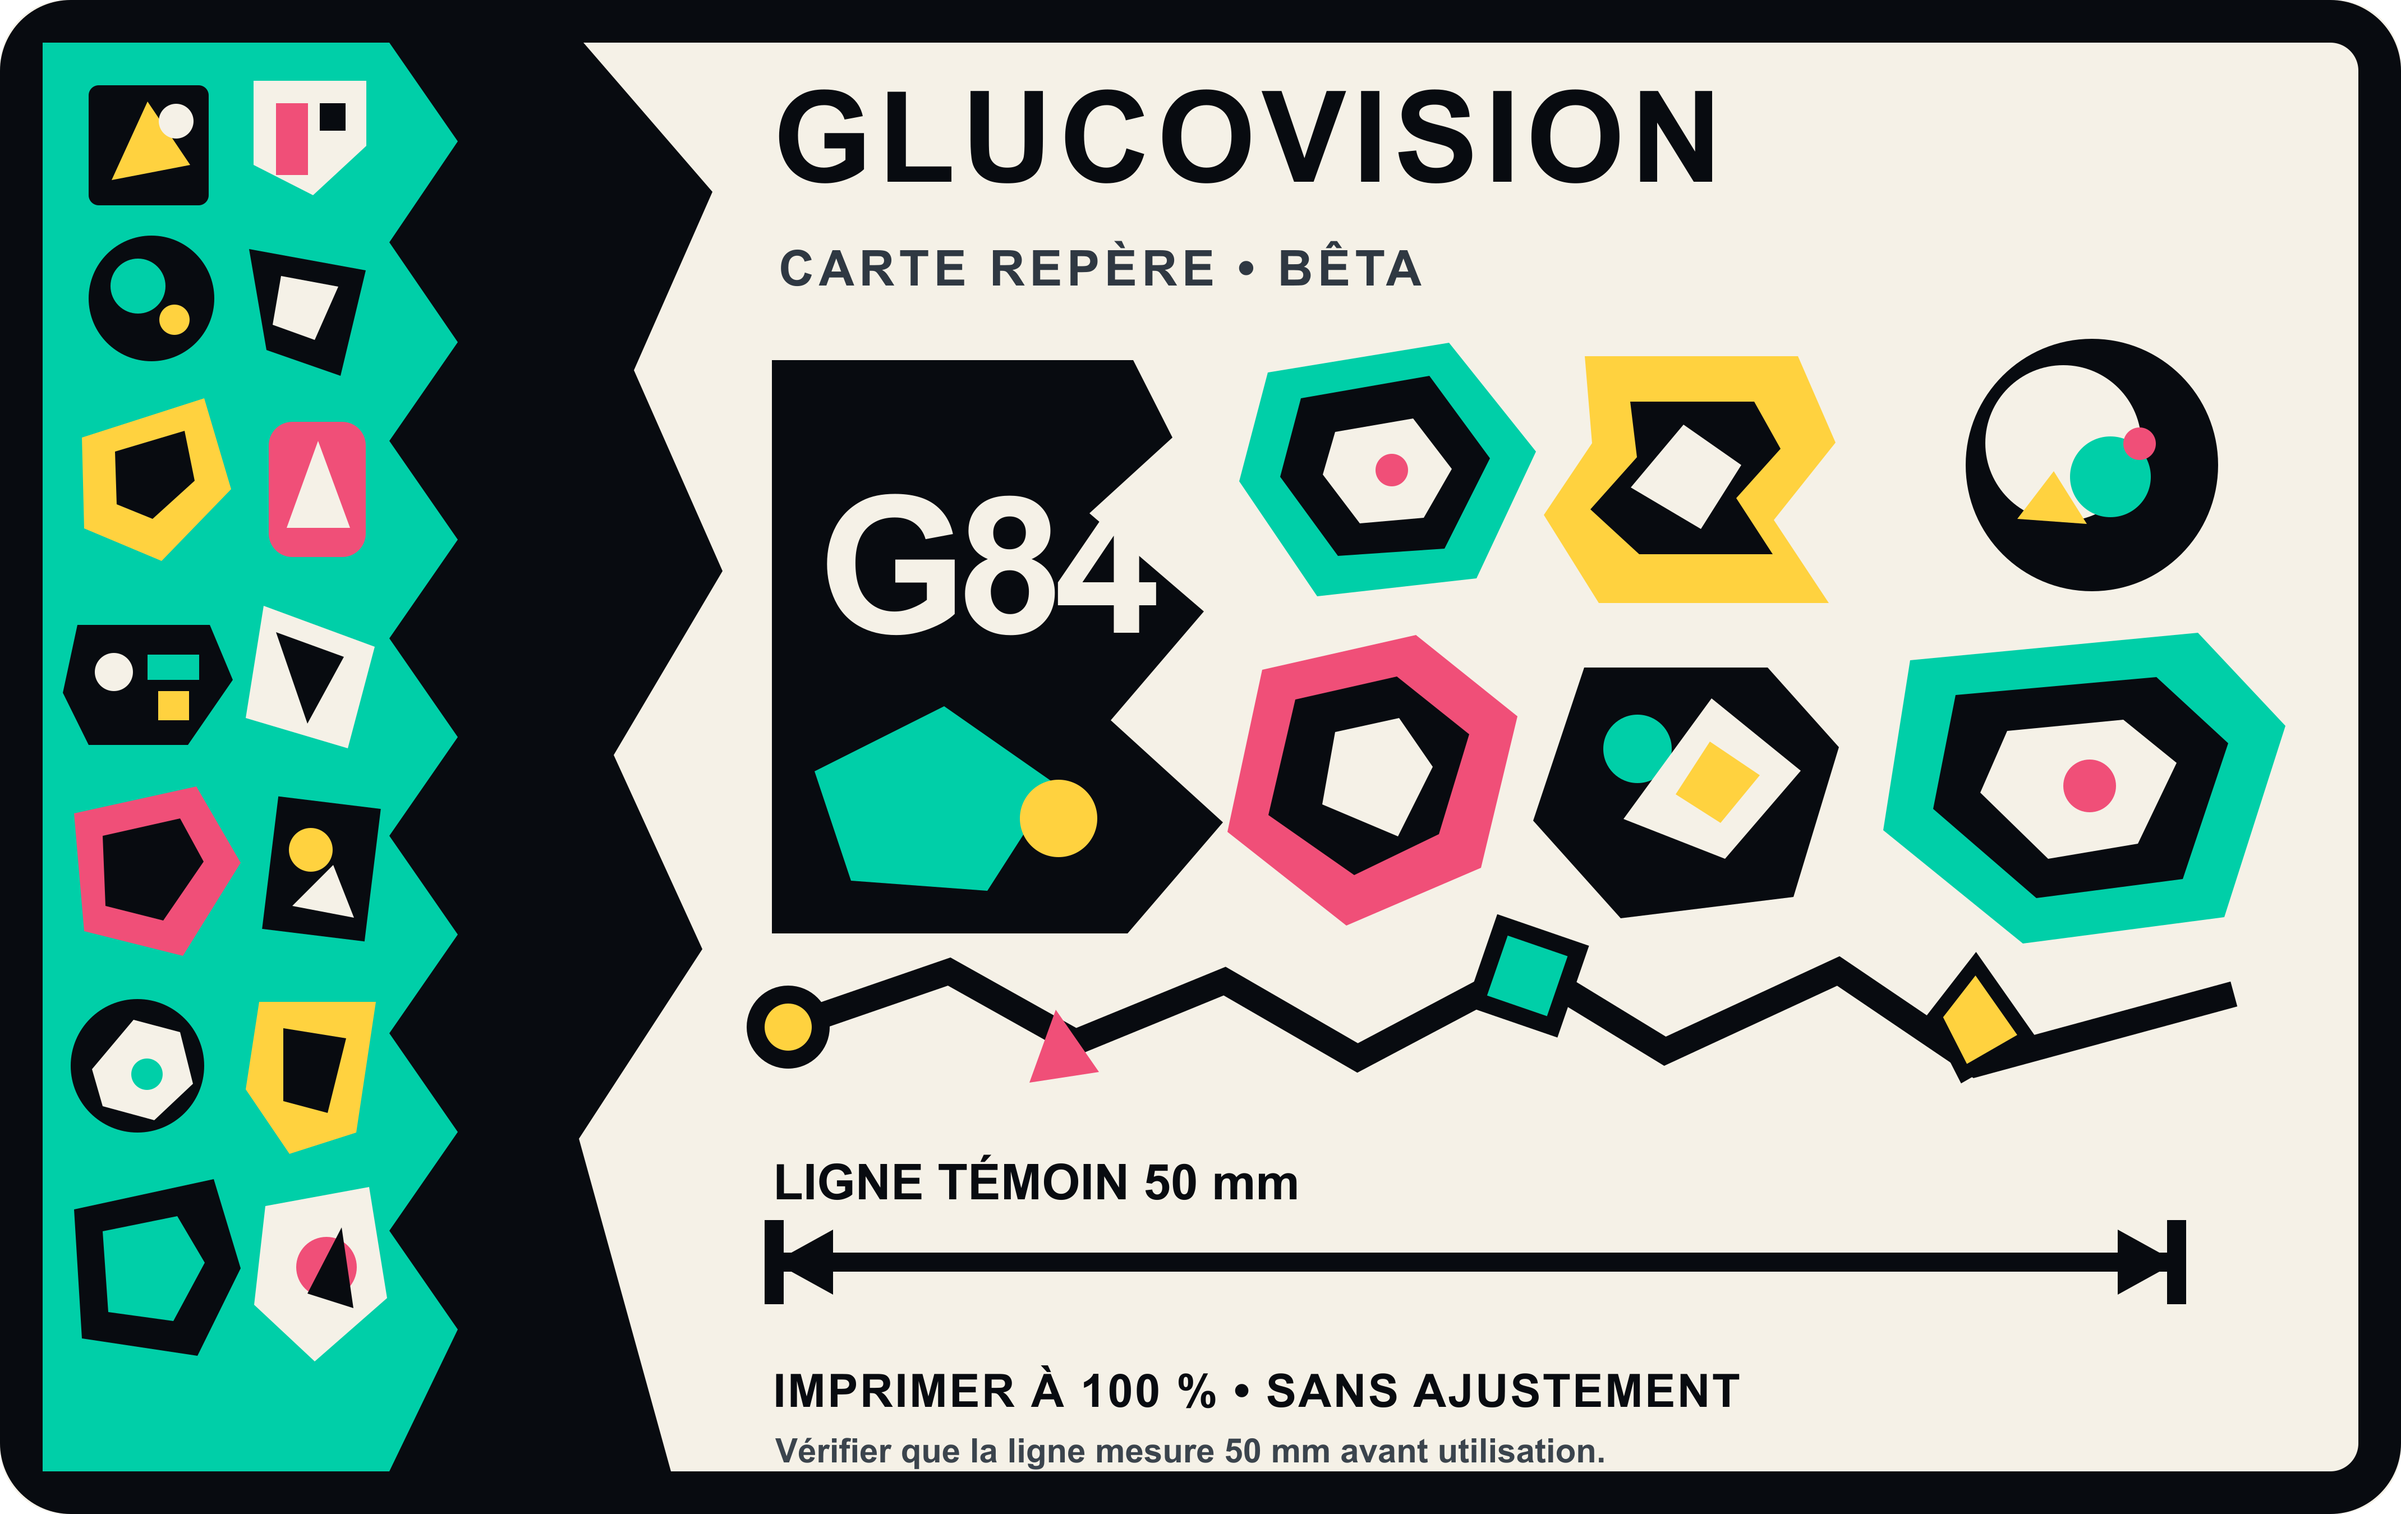
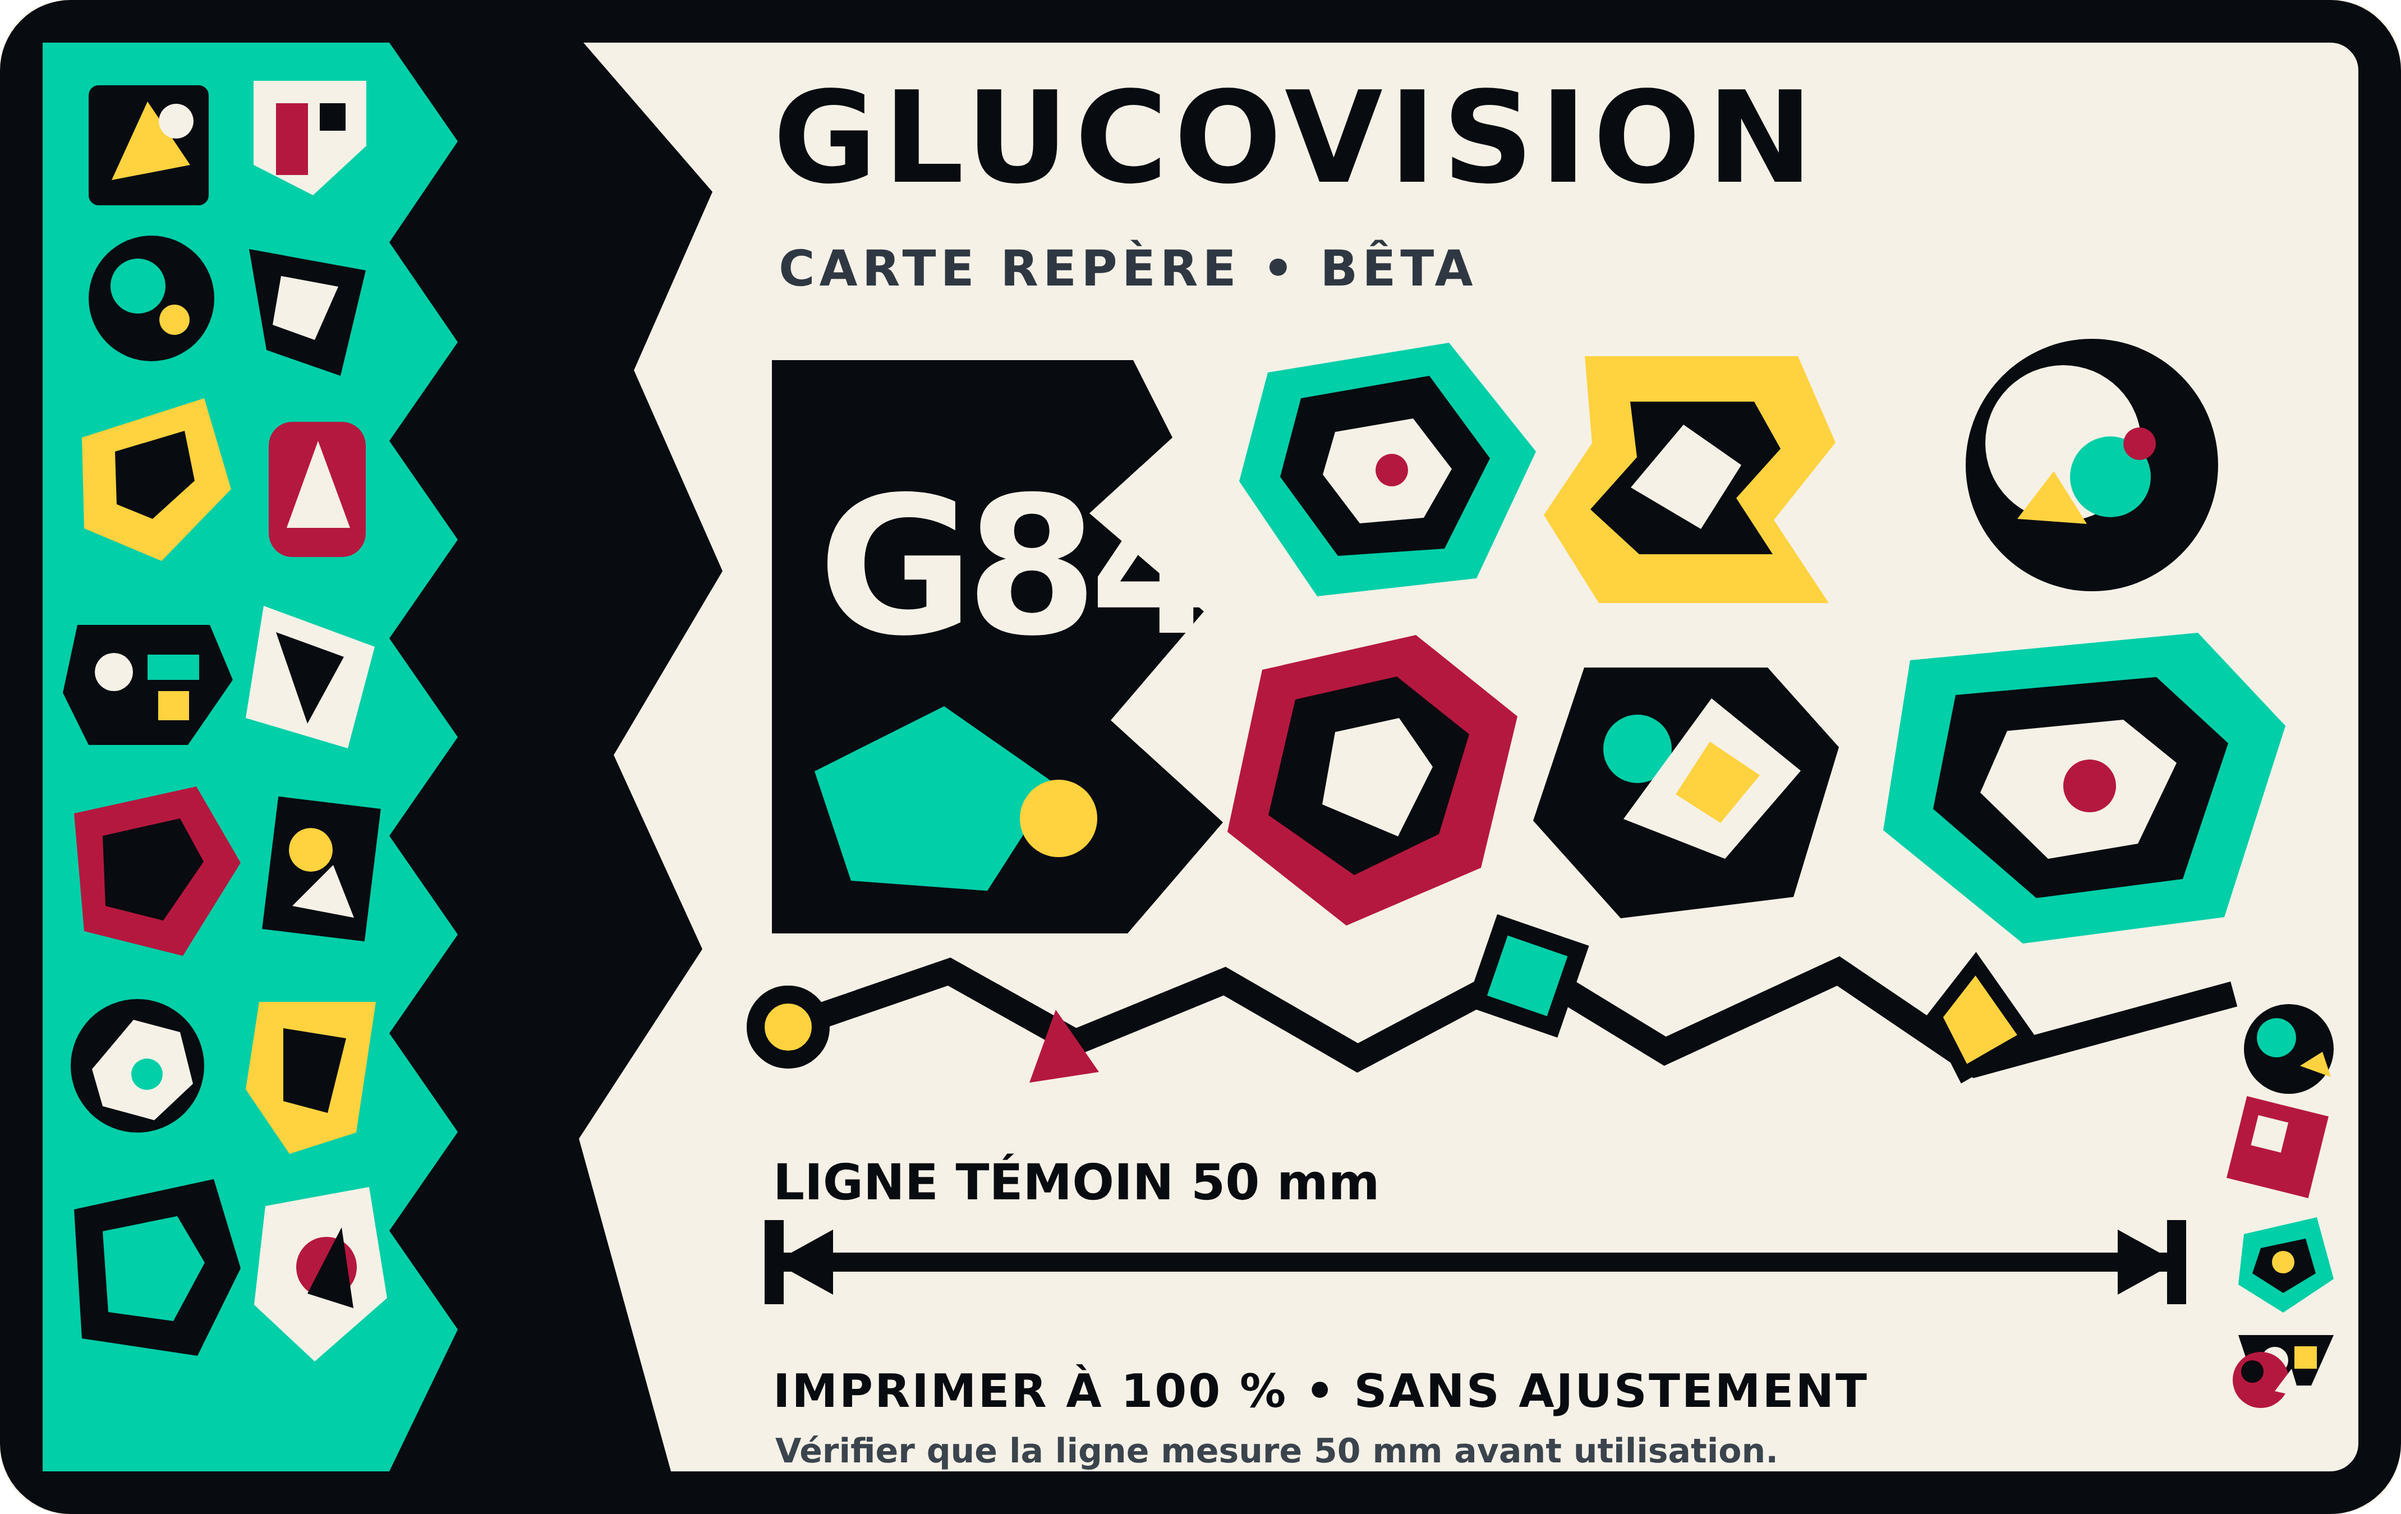
v85 — carte repère à 100/100, vérifiée avec le vrai arcoreimg
Deux défauts trouvés dans le motif de la carte GlucoVision, à l'origine
purement analytiques (je n'ai pas arcoreimg sur cette machine, donc pas de
score avant ce commit) :

1. Le teal (#00cfa8, luminance ~141) et le rose (#f04f78, luminance ~132)
   n'étaient écartés que de 9 points sur 255. ARCore lit l'image en niveaux
   de gris : deux couleurs visuellement distinctes mais proches en luminance
   sont presque une zone plate pour le tracker. Le rose devient #b5183f
   (luminance ~75), qui écarte nettement les deux teintes.
2. La colonne x:3950-4180 était vide de tout motif sous y=1682, sur toute
   la hauteur restante de la carte — la plus grande zone plate du dessin.
   Comblée par cinq petits groupes de formes dans le même style que le
   reste, sans toucher à la ligne témoin ni au texte d'instruction.

Le score n'était donc qu'une hypothèse jusqu'à ce que je télécharge le
binaire officiel `arcoreimg` depuis google-ar/arcore-android-sdk (dépôt
Google, lien direct vers tools/arcoreimg/linux/arcoreimg) et que je le fasse
tourner moi-même : 95 sur l'image d'origine (recalé exactement sur le score
déjà documenté, preuve que l'outil mesure correctement), 100 sur la version
corrigée — confirmé sur plusieurs essais. Rien n'a été changé sans que la
mesure existe.

Une découverte en cours de route, gardée parce qu'elle a une vraie valeur
pour qui retouchera cette carte un jour : faire passer le badge de version
[…]

diff --git a/tests-browser/comparaison.js b/tests-browser/comparaison.js
@@ -159,8 +159,16 @@ async function ecran(page, liste, contexte) {
 
   /* Parcours Carte GlucoVision avec un pont Android déterministe. On remplace
      uniquement native.js sur cette page isolée : tout le DOM et app.js restent
-     ceux réellement publiés. */
+     ceux réellement publiés.
+
+     Le build simulé est volontairement énorme plutôt qu'un numéro de version
+     réel : un chiffre comme 2084 se fige au moment de l'écriture du test et
+     retombe SOUS le plancher dès que MIN_NATIVE_BUILD est relevé — c'est
+     exactement ce qui a fait échouer ce test au moment de faire remonter le
+     plancher pour la nouvelle carte. Un grand nombre reste valide quelle que
+     soit la prochaine version. */
   console.log('\nCarte GlucoVision :');
+  const BUILD_SIMULE = 999999999;
   const cardPage = await ctx.newPage();
   await cardPage.route('**/js/native.js*', function (route) {
     return route.fulfill({ status: 200, contentType: 'text/javascript', body: `
@@ -199,7 +207,7 @@ async function ecran(page, liste, contexte) {
           isApp: true, platform: 'android',
           ready: function () { return Promise.resolve(true); },
           markReady: function () { return Promise.resolve(true); },
-          appBuild: function () { return Promise.resolve(2084); },
+          appBuild: function () { return Promise.resolve(${BUILD_SIMULE}); },
           writeStartupReport: function () { return Promise.resolve('ok'); },
           selfCheck: function () { return {}; }, selfCheckLine: function () { return 'ok'; },
           onResume: function () {}, onLaunchAction: function () {},
@@ -227,9 +235,11 @@ async function ecran(page, liste, contexte) {
     ` });
   });
   await cardPage.goto('http://localhost:' + PORT + '/');
-  await cardPage.waitForFunction(function () {
-    return /APK 2084/.test(document.getElementById('app-version').textContent || '');
-  });
+  // BUILD_SIMULE passé en argument : waitForFunction s'exécute côté page,
+  // sans accès à la portée Node où la constante est déclarée.
+  await cardPage.waitForFunction(function (build) {
+    return document.getElementById('app-version').textContent.indexOf('APK ' + build) !== -1;
+  }, BUILD_SIMULE);
   await cardPage.click('#reference-card > summary');
   await cardPage.selectOption('#reference-mode', 'glucovision-card-v1');
   await cardPage.waitForSelector('#btn-depth:not([hidden])');

diff --git a/tests/native.test.js b/tests/native.test.js
@@ -192,7 +192,14 @@ test('une erreur de lecture photo ne devient pas zéro octet rassurant', async (
   await assert.rejects(sandbox.Native.photos.size(), /EACCES/);
 });
 
-test('l’APK v84 exclut les données de santé et impose le contrat natif de la carte', () => {
+test('l’APK exclut les données de santé et impose le contrat natif de la carte', () => {
+  /* MIN_NATIVE_BUILD et minimum_native_floor comparés dynamiquement plutôt que
+     figés à une version précise : un test qui oblige à une retouche à chaque
+     bump de version finit par être désarmé (déjà vu sur service-worker.test.js
+     et le test navigateur « Version 80 »). Ce qui compte réellement : le
+     plancher exigé par cette variante ne doit jamais dépasser ce que l'app
+     réclame elle-même, sinon un APK conforme au plancher serait quand même
+     rejeté par son propre contenu web. */
   const workflow = fs.readFileSync(path.join(ROOT, '.github/workflows/android.yml'), 'utf8');
   const modern = fs.readFileSync(
     path.join(ROOT, 'android-res/xml/data_extraction_rules.xml'), 'utf8');
@@ -200,8 +207,17 @@ test('l’APK v84 exclut les données de santé et impose le contrat natif de la
   const app = fs.readFileSync(path.join(ROOT, 'js/app.js'), 'utf8');
   assert.match(workflow, /android:dataExtractionRules="@xml\/data_extraction_rules"/);
   assert.match(workflow, /android:fullBackupContent="@xml\/backup_rules"/);
-  assert.match(workflow, /minimum_native_floor=2084/);
-  assert.match(app, /MIN_NATIVE_BUILD = 2084/);
+
+  const floorMatch = /minimum_native_floor=(\d+)/.exec(workflow);
+  const minNativeMatch = /MIN_NATIVE_BUILD = (\d+)/.exec(app);
+  assert.ok(floorMatch, 'minimum_native_floor introuvable dans le workflow');
+  assert.ok(minNativeMatch, 'MIN_NATIVE_BUILD introuvable dans js/app.js');
+  const floor = Number(floorMatch[1]);
+  const minNative = Number(minNativeMatch[1]);
+  assert.ok(floor >= 2084, 'le plancher ne doit jamais redescendre sous la carte repère (v84)');
+  assert.ok(minNative >= floor,
+    `MIN_NATIVE_BUILD (${minNative}) doit être au moins égal au plancher (${floor})`);
+
   assert.match(modern, /<cloud-backup/);
   assert.match(modern, /<device-transfer>/);
   assert.ok((modern.match(/<exclude /g) || []).length >= 10);

diff --git a/index.html b/index.html
@@ -13,7 +13,7 @@
   <link rel="apple-touch-icon" href="icons/icon-180.png" />
   <meta name="apple-mobile-web-app-capable" content="yes" />
   <meta name="apple-mobile-web-app-status-bar-style" content="black-translucent" />
-  <link rel="stylesheet" href="css/styles.css?v=84" />
+  <link rel="stylesheet" href="css/styles.css?v=85" />
 </head>
 <body>
   <!-- ============ En-tête ============ -->
@@ -805,21 +805,21 @@
        off.js, qui décident de leur support de stockage / de leur transport HTTP
        selon Native.isApp. Dans le navigateur, les deux fichiers se chargent sans
        effet (Capacitor y déclare la plateforme « web »). -->
-  <script src="vendor/capacitor-plugins.js?v=84"></script>
-  <script src="js/native.js?v=84"></script>
-  <script src="js/storage.js?v=84"></script>
-  <script src="js/foods.js?v=84"></script>
-  <script src="js/gi.js?v=84"></script>
-  <script src="js/queue.js?v=84"></script>
-  <script src="js/report.js?v=84"></script>
-  <script src="js/bench.js?v=84"></script>
-  <script src="js/estimator.js?v=84"></script>
-  <script src="js/camera.js?v=84"></script>
-  <script src="js/portion.js?v=84"></script>
-  <script src="js/manual.js?v=84"></script>
-  <script src="js/off.js?v=84"></script>
-  <script src="vendor/zxing.min.js?v=84"></script>
-  <script src="js/barcode.js?v=84"></script>
-  <script src="js/app.js?v=84"></script>
+  <script src="vendor/capacitor-plugins.js?v=85"></script>
+  <script src="js/native.js?v=85"></script>
+  <script src="js/storage.js?v=85"></script>
+  <script src="js/foods.js?v=85"></script>
+  <script src="js/gi.js?v=85"></script>
+  <script src="js/queue.js?v=85"></script>
+  <script src="js/report.js?v=85"></script>
+  <script src="js/bench.js?v=85"></script>
+  <script src="js/estimator.js?v=85"></script>
+  <script src="js/camera.js?v=85"></script>
+  <script src="js/portion.js?v=85"></script>
+  <script src="js/manual.js?v=85"></script>
+  <script src="js/off.js?v=85"></script>
+  <script src="vendor/zxing.min.js?v=85"></script>
+  <script src="js/barcode.js?v=85"></script>
+  <script src="js/app.js?v=85"></script>
 </body>
 </html>

diff --git a/tests/release-workflow.test.js b/tests/release-workflow.test.js
@@ -21,8 +21,8 @@ const manifest = JSON.parse(read('manifest.webmanifest'));
 const packageJson = JSON.parse(read('package.json'));
 const packageLock = JSON.parse(read('package-lock.json'));
 
[4 lines of base64/hex data omitted]
 
 test('la version v84 ou suivante reste synchronisée dans toute la chaîne de publication', () => {
   const appVersion = /APP_VERSION = '(\d+)'/.exec(app);
@@ -79,7 +79,7 @@ test('la carte repère imprimable et le PNG natif sont verrouillés octet par oc
   assert.match(workflow, new RegExp(`CARD_PNG_SHA256: ${CARD_PNG_SHA256}`));
   assert.match(readme, new RegExp(CARD_SVG_SHA256));
   assert.match(readme, new RegExp(CARD_PNG_SHA256));
-  assert.match(readme, /arcoreimg[^\n]*1\.54\.0[^\n]*95\/100/i);
+  assert.match(readme, /arcoreimg[^\n]*100\/100/i);
 
   const svg = read('glucovision-card.svg');
   assert.match(svg, /width="85\.60mm" height="53\.98mm" viewBox="0 0 4280 2699"/);

diff --git a/js/app.js b/js/app.js
@@ -3,7 +3,7 @@
   'use strict';
 
   var $ = function (id) { return document.getElementById(id); };
-  var APP_VERSION = '84'; // à garder synchro avec la version du service worker
+  var APP_VERSION = '85'; // à garder synchro avec la version du service worker
 
   /* Build natif MINIMAL exigé par ce bundle web.
      Le contenu web se met à jour par OTA, le code Java non : un APK ancien
@@ -17,7 +17,7 @@
   /* v80 ajoute aussi les règles Android qui excluent repas/photos du cloud et
      du transfert appareil-à-appareil. Elles vivent dans l'APK : un ancien
      build 2073 ne doit donc pas accepter le bundle OTA v80. */
-  var MIN_NATIVE_BUILD = 2084;
+  var MIN_NATIVE_BUILD = 2085;
   var nativeBuild = null;      // build réellement en cours d'exécution, sur APK
   var settings = Storage.getSettings();
 

diff --git a/service-worker.js b/service-worker.js
@@ -4,7 +4,7 @@
    Mise à jour : le nouveau worker ATTEND (pas de skipWaiting automatique). La page
    affiche un bouton « Actualiser » et envoie le message SKIP_WAITING quand l'utilisateur
    l'accepte. Les appels API (Anthropic / Google / OpenAI) ne sont jamais mis en cache. */
-var VERSION = '84';
+var VERSION = '85';
 var CACHE = 'diabete-v' + VERSION;
 var ASSETS = [
   './',

diff --git a/README.md b/README.md
@@ -48,12 +48,13 @@ taille physique de 85,60 × 53,98 mm. Elle ne pèse pas les aliments, ne connaî
 densité et ne transforme pas une photo en mesure médicale. Si elle n'est pas détectée de
 façon fiable, le résultat doit rester une estimation photo libre.
 
-Le motif est volontairement asymétrique, mat et riche en détails non répétitifs. L'outil
-officiel ARCore `arcoreimg` 1.54.0 lui attribue **95/100** (seuil recommandé : 75) : ce score
-évalue la facilité de suivi du motif, **pas** la précision des glucides ni des portions.
+Le motif est volontairement asymétrique, mat et riche en détails non répétitifs, avec des
+teintes choisies pour rester contrastées même converties en niveaux de gris — c'est ainsi
+qu'ARCore lit l'image. L'outil officiel `arcoreimg` (binaire Linux du dépôt public [google-ar/arcore-android-sdk](https://github.com/google-ar/arcore-android-sdk)) lui attribue **100/100** (seuil recommandé : 75) : ce score évalue la
+facilité de suivi du motif, **pas** la précision des glucides ni des portions.
 
[4 lines of base64/hex data omitted]
 
 Dans l'APK Android compatible, le bouton optionnel **Photo mesurée** suit la carte avec
 ARCore et calcule le plan métrique à partir de sa pose. Il transmet l'échelle du champ
